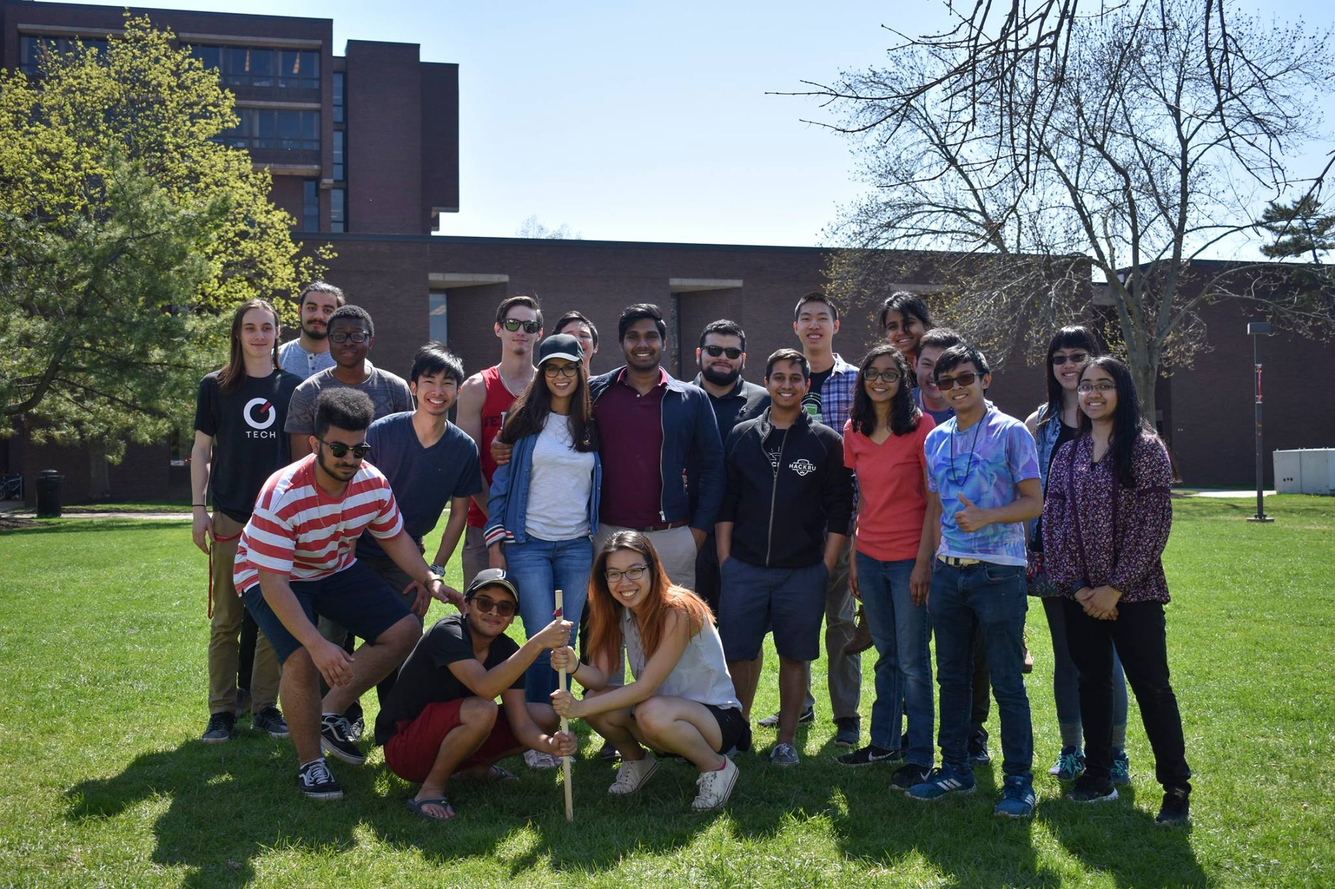
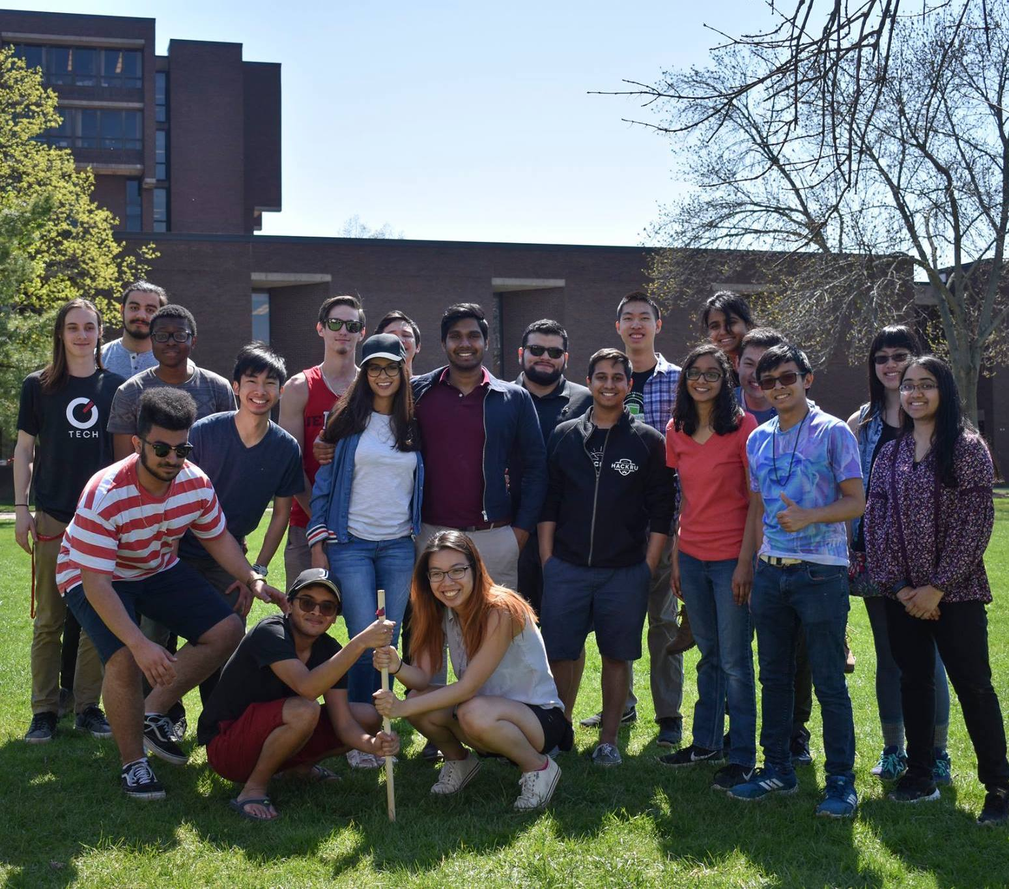
images and info

diff --git a/new-tanya.github.io/index.html b/new-tanya.github.io/index.html
@@ -25,7 +25,7 @@
 							<p> Links: &ensp;
 								<a href="https://github.com/tanya" class="icon style2 fa-github" target="_blank"></a> &ensp;
 								<a href="https://linkedin.com/in/tanya-b" class="icon style2 opaque fa-linkedin" target="_blank"></a> &ensp;
-								<a href="Resume_1_19_WEB.pdf" class="icon style2 fa-file-text" target="_blank"></a>
+								<a href="Balaraju_Tanya_Resume_WEB.pdf" class="icon style2 fa-file-text" target="_blank"></a>
 							</p>
 							<ul class="actions stacked">
 								<li><a href="#first" class="button big wide smooth-scroll-middle">More About Me</a></li>
@@ -39,21 +39,26 @@
 				<!-- Two -->
 					<section class="spotlight style1 onscroll-image-fade-in fullscreen orient-right content-align-left image-position-center" id="first">
 						<div class="content">
-							<h2>hackNY Fellowship</h2>
+							<h2>hackNY Fellowship Class of 2018</h2>
 							<p>I spent Summer 2018 as a hackNY Fellow, living and working in
 								the heart of Manhattan.</p>
 
-							<p>During the day, I had a blast as a Software Engineering Intern
-								 at <a href="https://datadoghq.com" target="_blank">Datadog</a>!
-								(<a href="Resume_1_19.pdf" target="_blank">Resume</a>)</p>
+							<p>During the day, I had a blast as a <b>Software Engineering Intern
+								 at <a href="https://datadoghq.com" target="_blank">Datadog</a></b>!
+								(<a href="Balaraju_Tanya_Resume_WEB.pdf" target="_blank">See resume</a>)</p>
 
 							<p>I spent the rest of my time <b>exploring</b> the city, attending
 								<b>Speaker Series</b> talks by prominent tech entrepreneurs in NYC,
 								and working on a parser app in <b>Python</b> to help the
 								<a href="https://www.manhattanda.org/victim-resources/human-trafficking/">
 							  NYC Human Trafficking Response Unit (HTRU)</a> gather evidence.</p>
+
+							<p>As an alumNY, I'm currently reviewing new applicants,
+								and I also help with running the hackNY
+								<a href="https://hackny.org/hackathon" target="_blank">hackathon</a>.
+							</p>
 							<ul class="actions stacked">
-								<li><a href="https://apply.hackny.org/" class="button" target="_blank">Learn More</a></li>
+								<li><a href="https://apply.hackny.org/" class="button" target="_blank">hackNY Website</a></li>
 							</ul>
 						</div>
 						<div class="image">
@@ -64,7 +69,7 @@
 				<!-- Three -->
 					<section class="spotlight style1 orient-left content-align-left image-position-center onscroll-image-fade-in">
 						<div class="content">
-								<h2>Rutgers University</h2>
+								<h2>Rutgers University Class of 2018</h2>
 								<p>
 									I graduated <b>magna cum laude</b> from <b>Rutgers New Brunswick</b>
 									in May 2018, with a <b>B.S.in Computer Science</b>.
@@ -77,14 +82,19 @@
  									<br>My <b>graduate-level</b> coursework included Artificial Intelligence,
 									Brain-Inspired Computing, Natural Language Processing, and Internet Services.
 								</p>
+								<p>
+									I was inducted into <b><a href="https://www.pbk.org/" target="_blank">Phi Beta Kappa</a></b>
+									during my senior year and am an alumna of both the Computer Science and Arts and
+									Sciences <b>Honors Programs.</b>
+								</p>
 							</div>
 							<div class="image">
 								<img src="images/R.jpg" alt="" />
 							</div>
 					</section>
 
-					<section class="spotlight style1 onscroll-image-fade-in fullscreen orient-right content-align-left image-position-center" id="first">
-						<div class="content">
+					<section class="spotlight style1 onscroll-image-fade-in orient-right content-align-left image-position-center" id="first">
+						<div class="content" background=#FFFFFF>
 							<h2>Rutgers USACS</h2>
 							<p>From 2016 to 2018, I was Community Director in the
 								<a href="https://usacs.rutgers.edu" target="_blank">Undergraduate
@@ -92,26 +102,37 @@
 								University.
 							</p>
 							<p>
-								When I first joined, the CS community at Rutgers came off as rather
+									&emsp; When I first joined, the CS community at Rutgers came off as rather
 								intimidating to newcomers and minorities. After realizing that
 								something needed to be done, the rest of the e-board and I worked
 								to make the community more welcoming. Together, we
 								organized brand-new events and initiatives to encourage a healthy and
 								friendly environment for anyone interested in computer science.
-								Building and improving communities in tech has since been a passion of mine!
+
+							<br>
+								&emsp;Our membership grew massively, both in number and in diversity, and the
+									progress we made constituted one of the most fulfilling experiences
+									I had at Rutgers. Building and improving communities in tech
+									has since been a passion of mine!
+							</p>
+
+							<p>If you'd like to learn more about the Rutgers CS community, check out USACS's
+							<a href="https://facebook.com/rutgers.usacs" target="_blank">Facebook</a>,
+							<a href="https://instagram.com/rutgers_usacs" target="_blank">Instagram</a>, and
+							<a href="https://twitter.com/rutgers_usacs" target="_blank">Twitter</a> pages.
 							</p>
 							<ul class="actions stacked">
-								<li><a href="https://facebook.com/rutgers.usacs" class="button" target="_blank">
-									USACS FB Page</a></li>
+								<li><a href="https://usacs.rutgers.edu" class="button" target="_blank">
+									USACS Website</a></li>
 							</ul>
 						</div>
-						<div class="image">
-							<img src="images/usacs.jpg" alt="" />
+						<div class="image" width=100%>
+							<img src="images/usacs_group.gif" max-width=100%; max-height=100%; alt="" width=100% />
 						</div>
 					</section>
 
 				<!-- Four -->
-					<section class="spotlight style1 orient-left content-align-left image-position-center onscroll-image-fade-in">
+					<section class="spotlight style1 orient-left content-align-left image-position-center onscroll-image-fade-in" color3>
 						<div class="content">
 							<h2>HackRU</h2>
 							<p>I was involved in HackRU, the Rutgers hackathon, during all four
@@ -127,11 +148,35 @@
 							</p>
 
 							<ul class="actions stacked">
-								<li><a href="https://hackru.org" class="button" target="_blank">Learn More</a></li>
+								<li><a href="https://hackru.org" class="button" target="_blank">HackRU Website</a></li>
 							</ul>
 						</div>
 						<div class="image">
 							<img src="images/hackru.jpg" target="_blank" alt="" />
+						</div>
+					</section>
+
+					<section class="spotlight style1 onscroll-image-fade-in fullscreen orient-right content-align-left image-position-center" id="first">
+						<div class="content">
+							<h2>iLab Assistant &nbsp; / &nbsp; CS Tutor</h2>
+							<p>During my senior year, I was an iLab Assistant in the
+								<a href="https://www.cs.rutgers.edu/resources/cave" target="_blank">CAVE</a>, a
+								computer lab and lounge for CS and tech students at Rutgers. One of
+								my main responsibilities was to <b>tutor</b> students with CS
+								coursework such as <b>Intro to CS, Data Structures, Computer Architecture,</b>
+								and more.
+							</p>
+							<p>
+								That year, my coworkers and I broke the previous record for the
+								number of students who received tutoring!
+							</p>
+							<ul class="actions stacked">
+								<li><a href="https://www.cs.rutgers.edu/resources/cave" class="button" target="_blank">
+									About the CAVE</a></li>
+							</ul>
+						</div>
+						<div class="image">
+							<img src="images/CAVE.jpg" alt="" />
 						</div>
 					</section>
 <!--
@@ -366,7 +411,7 @@
 					<section class="wrapper style1 align-center">
 						<div class="inner medium">
 							<h2>Get in touch</h2>
-							<p> Feel free to reach out on <a href="https://linkedin.com/in/tanya-b">
+							<p> Feel free to reach out on <a href="https://linkedin.com/in/tanya-b" target="_blank">
 								LinkedIn</a>, or email me:
 							<form method="POST" action="https://formspree.io/tanyabalaraju@gmail.com">
 								<div class="fields">
@@ -398,7 +443,7 @@
 							<ul class="icons">
 								<li><a href="https://github.com/tanya" class="icon style2 fa-github" target="_blank"></a></li>
 								<li><a href="https://linkedin.com/in/tanya-b" class="icon style2 opaque fa-linkedin" target="_blank"></a></li>
-								<li><a href="Resume_1_19_WEB.pdf" class="icon style2 fa-file-text" target="_blank"></a></li>							</ul>
+								<li><a href="Balaraju_Tanya_Resume_WEB.pdf" class="icon style2 fa-file-text" target="_blank"></a></li>							</ul>
 							<p>&copy; Tanya Balaraju. Design: HTML5 UP.</p>
 						</div>
 					</footer>
